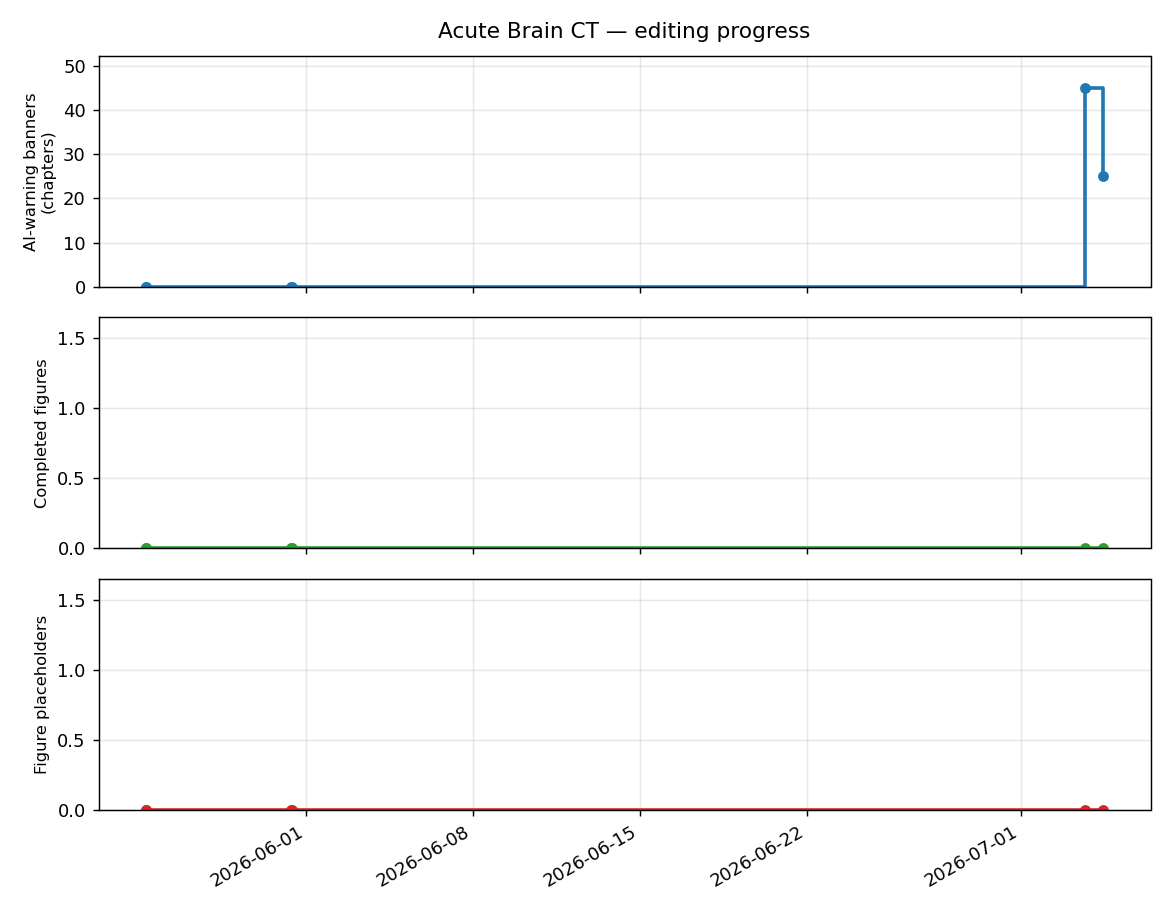
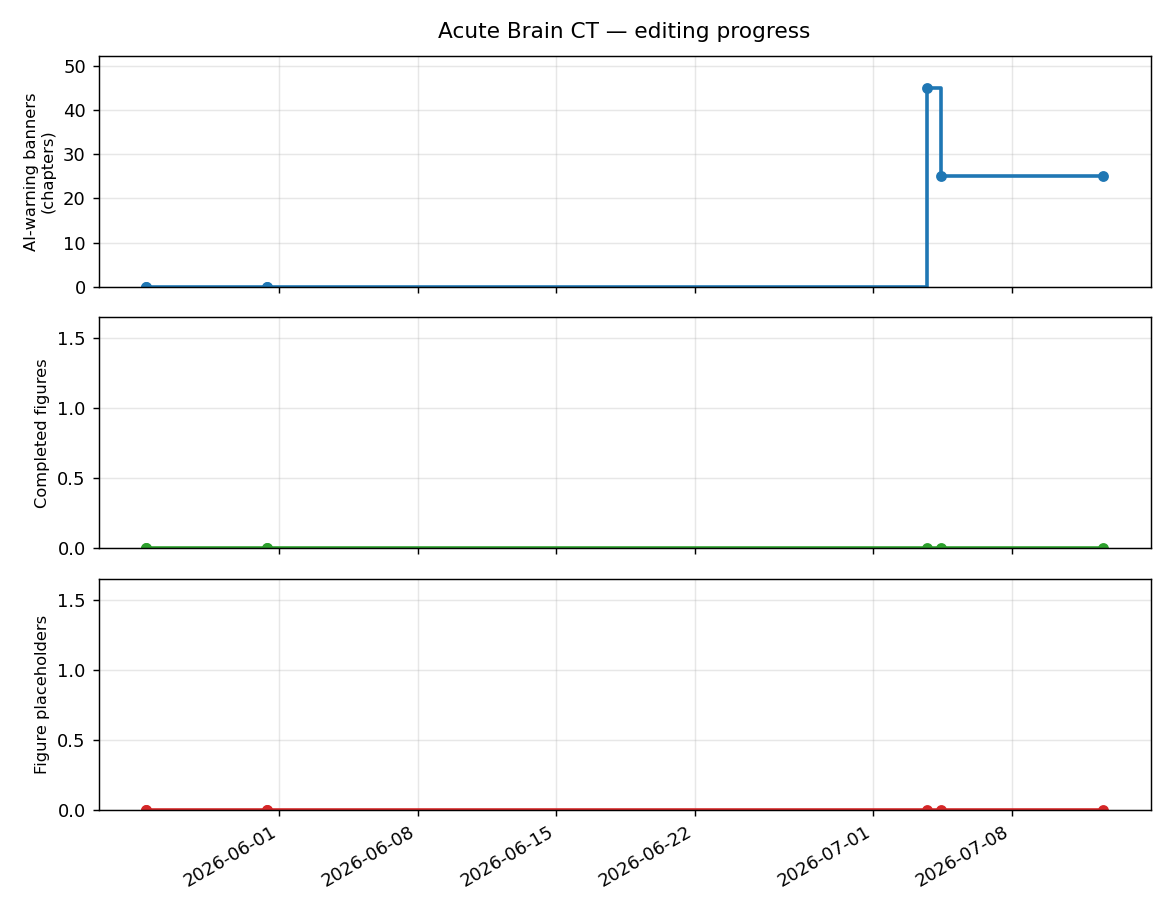
Cache-bust Progress plot image URL
Append a data-derived ?v= token so browsers/CDNs refetch the plot when
counts change.

diff --git a/docs/progress.md b/docs/progress.md
@@ -8,9 +8,9 @@ nav_order: 999
 
 _Auto-generated from the publication git history of the Acute Brain CT site. This page tracks editing progress and is **not** clinical content._
 
-Generated 2026-07-12 14:55 · 6 commit(s) tracked (2026-05-25 → 2026-07-04).
+Generated 2026-07-12 16:13 · 7 commit(s) tracked (2026-05-25 → 2026-07-12).
 
-![Acute Brain CT editing progress over time]({{ '/docs/img/progress_ctb.png' | relative_url }})
+![Acute Brain CT editing progress over time]({{ '/docs/img/progress_ctb.png' | relative_url }}?v=7-25-0-0)
 
 ## Latest counts
 